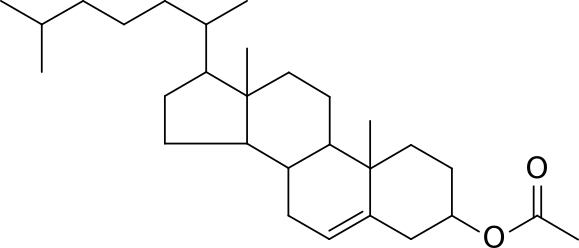
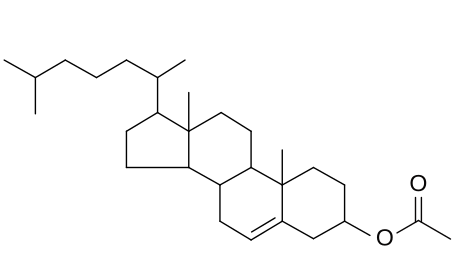
adjusted sterol backbone images

diff --git a/LipidCreator/CreatorGUI.Designer.cs b/LipidCreator/CreatorGUI.Designer.cs
@@ -2283,7 +2283,7 @@ namespace LipidCreator
             
             stFACombobox.BringToFront();
             stFATextbox.BringToFront();
-            stFATextbox.Location = new Point(616, 258);
+            stFATextbox.Location = new Point(574, 270);
             stFATextbox.Width = faLength;
             stFATextbox.Text = "2, 5, 17-19";
             stFATextbox.TextChanged += delegate(object s, EventArgs e){ updateCarbon(s, new FattyAcidEventArgs( ((Sterol)currentLipid).fag, "" )); };
@@ -2319,14 +2319,14 @@ namespace LipidCreator
             
             
             
-            stHgListbox.Location = new Point(34, 35);
-            stHgListbox.Size = new Size(140, 260);
+            stHgListbox.Location = new Point(24, 35);
+            stHgListbox.Size = new Size(80, 260);
             stHgListbox.BringToFront();
             stHgListbox.BorderStyle = BorderStyle.Fixed3D;
             stHgListbox.SelectedValueChanged += new System.EventHandler(stHGListboxSelectedValueChanged);
             stHgListbox.MouseMove += new System.Windows.Forms.MouseEventHandler(stHGListboxMouseHover);
             stHgListbox.KeyDown += stHgListboxKeyDown;
-            stPictureBox.Location = new Point(180, 60);
+            stPictureBox.Location = new Point(110, 40);
             if (!lipidCreatorInitError && stHgListbox.Items.Count > 0)
             {
                 stPictureBox.Image = Image.FromFile(lipidCreator.headgroups[stHgListbox.Items[0].ToString()].pathToBackboneImage);
